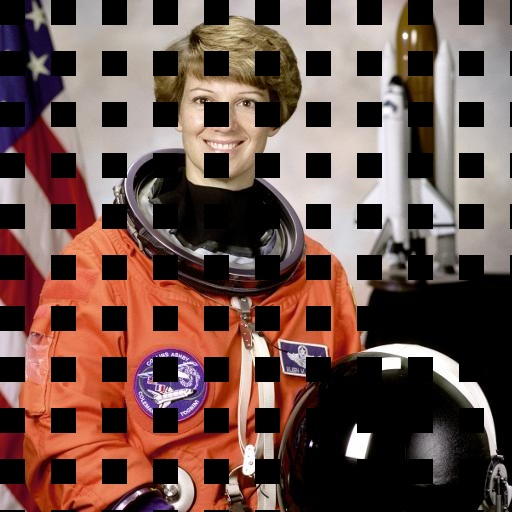
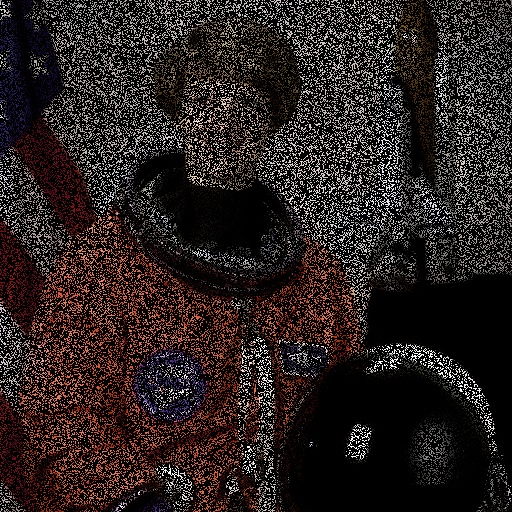
Changes for verif

diff --git a/face_lib/dataset_classes/lightning_datasets.py b/face_lib/dataset_classes/lightning_datasets.py
@@ -71,12 +71,21 @@ class MXFaceDataset(Dataset):
             #     p = 0.75
             # )
 
+            # №4
+            # self.alb_transform = A.Compose(
+            #     [A.GridDistortion(num_steps = 5, distort_limit = 0.3, p = 0.5),
+            #      A.GridDistortion(num_steps = 10, distort_limit = 0.5, p = 0.5),
+            #      A.GridDistortion(num_steps = 50, distort_limit = 1.0, p = 0.5)
+            #       ],
+            #     p = 0.75
+            # )
+
             self.alb_transform = A.Compose(
-                [A.GridDistortion(num_steps = 5, distort_limit = 0.3, p = 0.5),
-                 A.GridDistortion(num_steps = 10, distort_limit = 0.5, p = 0.5),
-                 A.GridDistortion(num_steps = 50, distort_limit = 1.0, p = 0.5)
+                [A.PixelDropout(dropout_prob=0.2, p = 0.5),
+                 A.PixelDropout(dropout_prob=0.4, p = 0.5),
+                 A.PixelDropout(dropout_prob=0.7, p = 0.5)
                   ],
-                p = 0.75
+                p = 0.5
             )
 
             self.transform = v2.Compose(

diff --git a/evaluation/face_recognition_test.py b/evaluation/face_recognition_test.py
@@ -76,7 +76,7 @@ class Face_Fecognition_test:
         template_pool_path = (
             cache_dir
             / Path(self.embedding_type)
-            / f"template_pool-{self.gallery_template_pooling_strategy.__class__.__name__}_probe-{self.probe_template_pooling_strategy.__class__.__name__}_{self.test_dataset.dataset_name}"
+            / f"template_pool-{self.gallery_template_pooling_strategy.__class__.__name__}_{self.test_dataset.dataset_name}"
         )
         # print(template_pool_path)
         template_pool_path.mkdir(parents=True, exist_ok=True)

diff --git a/evaluation/verification_methods/distance_based_verification.py b/evaluation/verification_methods/distance_based_verification.py
@@ -34,6 +34,6 @@ class VerifEval:
             unc2 = template_pooled_unc[
                 template2id[p2[id * batch_size : (id + 1) * batch_size]]
             ]
-            # scores.extend(self.distance_function(feat1, feat2, unc1, unc2))
-            scores.extend(self.distance_function(feat1, unc1, feat2, unc2))
+            scores.extend(self.distance_function(feat1, feat2, unc1, unc2))
+            # scores.extend(self.distance_function(feat1, unc1, feat2, unc2))
         return np.array(scores)

diff --git a/evaluation/visualize.py b/evaluation/visualize.py
@@ -213,7 +213,7 @@ def plot_tar_far_scores(scores, names=None):
         name = name if name is not None else str(id)
 
         auc_value = auc(fars, tpirs)
-        label = "[%s (AUC = %0.4f%%), tar %0.4f%% at far %.1E]" % (
+        label = "%s (AUC = %0.4f%%), tar %0.4f%% at far %.1E" % (
             name,
             auc_value * 100,
             tpirs[0],
